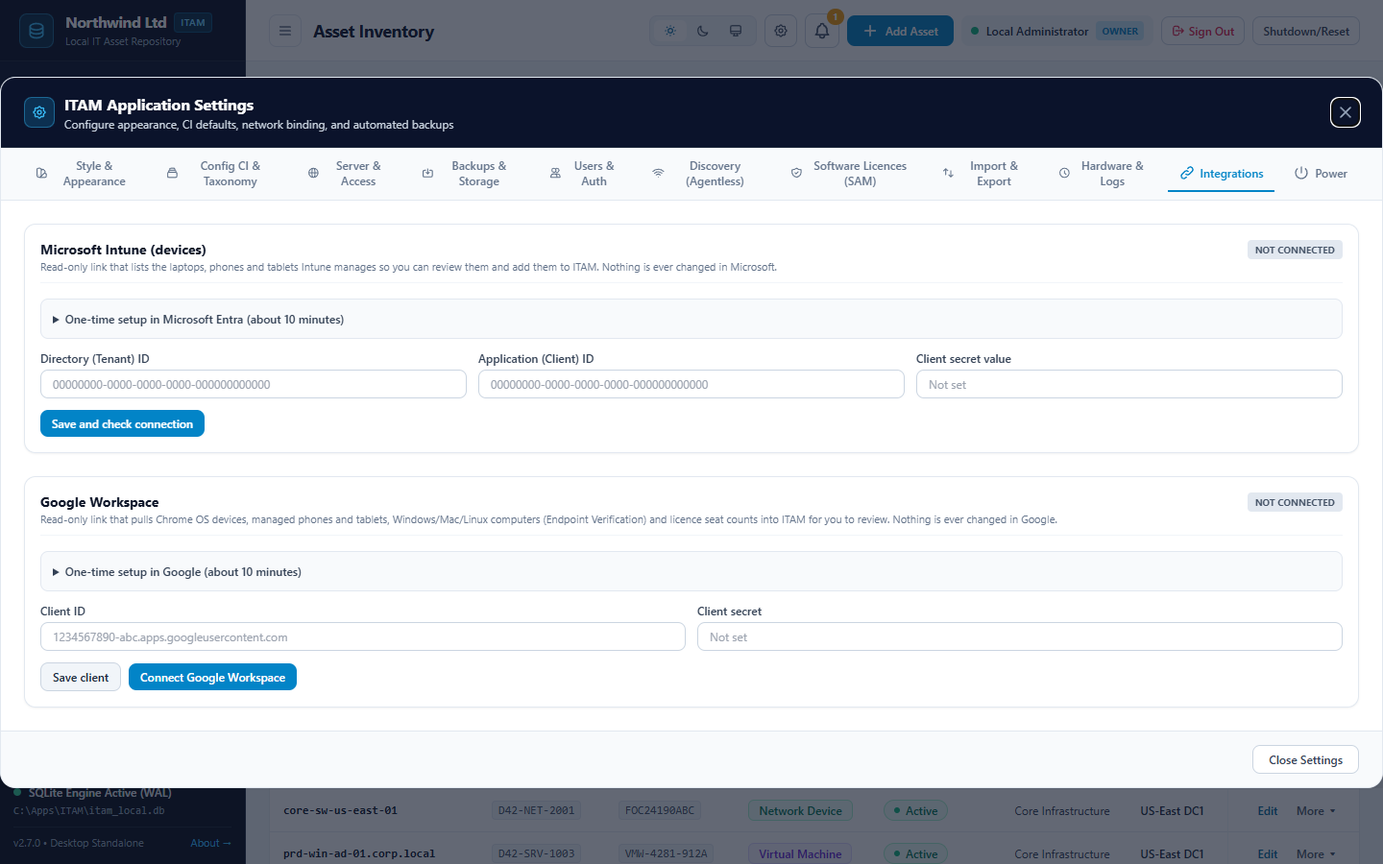
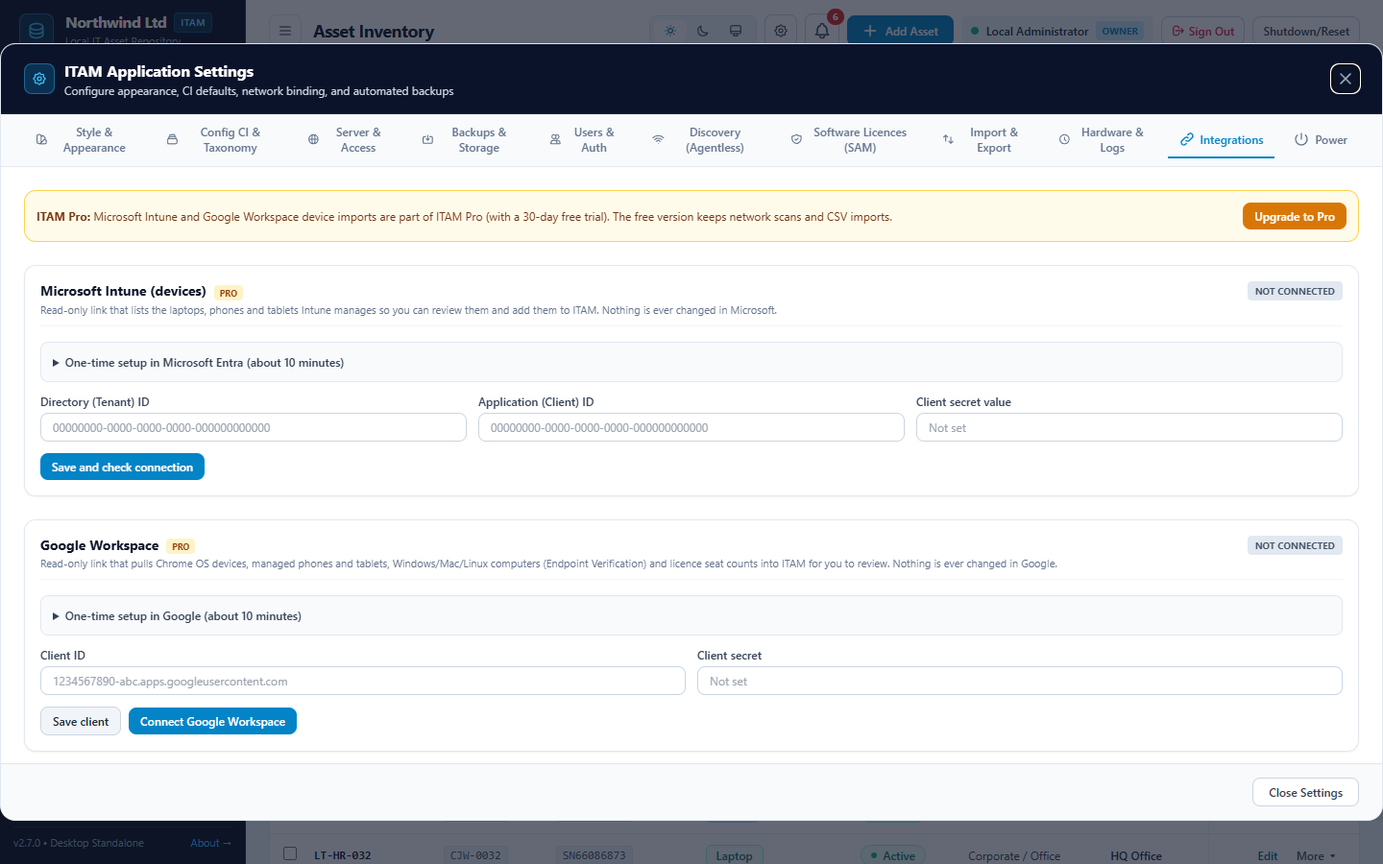
ITAM guides: new features with screenshots

diff --git a/itam/guides/02-Installation-and-Configuration.html b/itam/guides/02-Installation-and-Configuration.html
@@ -82,13 +82,15 @@ looks after. New to ITAM? Start with the <a href="01-Getting-Started.html">Getti
 <li><a href="#network-ports-and-protocols">Network ports and protocols</a></li>
 <li><a href="#where-itam-keeps-its-data">Where ITAM keeps its data</a></li>
 <li><a href="#network-access-and-https">Network access and HTTPS</a></li>
-<li><a href="#users-and-sign-in">Users and sign-in</a>: <a href="#roles">Roles</a> · <a href="#sign-in-with-microsoft">Microsoft</a> · <a href="#sign-in-with-google">Google</a> · <a href="#recovery-key">Recovery key</a></li>
+<li><a href="#users-and-sign-in">Users and sign-in</a>: <a href="#roles">Roles</a> · <a href="#automatic-sign-out">Automatic sign-out</a> · <a href="#sign-in-with-microsoft">Microsoft</a> · <a href="#sign-in-with-google">Google</a> · <a href="#recovery-key">Recovery key</a></li>
 <li><a href="#backups">Backups</a></li>
 <li><a href="#company-name-ci-types-and-dashboard-groups">Company name, CI types and dashboard groups</a></li>
 <li><a href="#software-licences">Software licences</a></li>
-<li><a href="#agentless-network-discovery">Agentless network discovery</a>: <a href="#windows-logins-wmi">Windows logins</a> · <a href="#snmp-v1v2c">SNMP</a> · <a href="#snmpv3-network-devices">SNMPv3</a> · <a href="#schedules">Schedules</a></li>
-<li><a href="#microsoft-intune">Microsoft Intune</a> · <a href="#google-workspace">Google Workspace</a></li>
+<li><a href="#agentless-network-discovery">Agentless network discovery</a>: <a href="#4-kept-scans">Kept scans</a> · <a href="#windows-logins-wmi">Windows logins</a> · <a href="#snmp-v1v2c">SNMP</a> · <a href="#snmpv3-network-devices">SNMPv3</a> · <a href="#schedules">Schedules</a></li>
+<li><a href="#microsoft-intune">Microsoft Intune</a> · <a href="#google-workspace">Google Workspace</a> (ITAM Pro)</li>
 <li><a href="#hardware-models-and-lifecycle">Hardware models and lifecycle</a></li>
+<li><a href="#asset-history-and-the-change-log">Asset history and the change log</a></li>
+<li><a href="#finance-settings">Finance settings</a></li>
 <li><a href="#restart-shut-down-and-factory-reset">Restart, shut down and factory reset</a></li>
 </ol>
 <blockquote>
@@ -165,14 +167,24 @@ in, and others connect to it with their browser.</p>
 <h3 id="starting-itam-with-windows">Starting ITAM with Windows</h3>
 <p>To have ITAM start when you sign in: press <strong>Windows + R</strong>, type <code>shell:startup</code> and press Enter. Then open the
 Start menu, find <strong>CJW-Apps ITAM</strong> under <strong>All apps</strong>, and drag it into that folder.</p>
+<h3 id="itams-own-window">ITAM's own window</h3>
+<p>ITAM opens in a Microsoft Edge (or Google Chrome) window of its own, with <strong>its own browser profile</strong>, kept in ITAM's
+data folder (<code>Window profile</code>). It has no extensions, no sync and no history shared with your everyday browsing, so:</p>
+<ul>
+<li>browser extensions (dark-mode add-ons, ad blockers, colour changers) cannot restyle or break ITAM;</li>
+<li>a browser set to clear cookies when it closes does not sign you out of ITAM's window;</li>
+<li>people who open ITAM in a normal browser tab are not affected by this; their own browser settings apply.</li>
+</ul>
 <h3 id="free-version-and-pro">Free version and Pro</h3>
 <p>ITAM is free for up to <strong>100 active assets</strong> (software licences and decommissioned assets do not
 count), including network scans and CSV imports. <strong>ITAM Pro</strong> removes the limit and adds the <strong>Microsoft Intune</strong> and
 <strong>Google Workspace</strong> device imports (Settings → Integrations): a monthly or yearly subscription with a 30-day free trial, paid through the
 Microsoft Store.</p>
 <ul>
-<li>A banner appears from 90 assets. Only the built-in <code>admin</code> account can <strong>Upgrade to Pro</strong>, <strong>Cancel Pro</strong> (in
-  <strong>About</strong>) or <strong>Recover purchase</strong>.</li>
+<li>A banner appears from 90 assets. Only the built-in <code>admin</code> account can <strong>Upgrade to Pro</strong> (banner, <strong>About</strong> or
+  <strong>Settings → Integrations</strong>), <strong>Cancel Pro</strong> (in <strong>About</strong>) or <strong>Recover purchase</strong>.</li>
+<li>Without Pro, <strong>Settings → Integrations</strong> shows the Intune and Google Workspace cards with a <strong>PRO</strong> label. A link
+  saved earlier stays saved, and the assets it added stay; only new imports pause.</li>
 <li>Without Pro nothing is deleted or locked: viewing, editing, exporting and backups all work; only adding new assets
   pauses.</li>
 <li>ITAM checks Pro with the Microsoft Store. If the Store cannot be reached, Pro carries on for 7 days, then shows
@@ -381,7 +393,7 @@ CJW Apps.</p>
 </ul>
 <hr />
 <h2 id="where-itam-keeps-its-data">Where ITAM keeps its data</h2>
-<p>ITAM keeps its data in <code>%LOCALAPPDATA%\CJW-Apps-ITAM</code>, inside the app's own storage. The folder holds the database (<code>itam_local.db</code>), the log file (<code>itam.log</code>) and the default <code>backups</code> folder.
+<p>ITAM keeps its data in <code>%LOCALAPPDATA%\CJW-Apps-ITAM</code>, inside the app's own storage. The folder holds the database (<code>itam_local.db</code>), the log file (<code>itam.log</code>), the default <code>backups</code> folder and the <code>Window profile</code> of ITAM's own window.
 <strong>Settings → Backups &amp; Storage</strong> shows the database's exact path and size.</p>
 <p>Passwords and keys you save in ITAM (client secrets, scan logins, API keys) are encrypted with Windows. They
 only work for the <strong>same Windows user on the same PC</strong>. If you move the database to another PC, enter them
@@ -436,7 +448,9 @@ another program has the port), it shows a message saying why.</p>
 <li>The person signs in with the username (or the e-mail address) and is asked to choose their own password.</li>
 </ol>
 <ul>
-<li><strong>Reset PW</strong> gives someone a new temporary password.</li>
+<li><strong>Reset PW</strong> opens a window for a new temporary password: type it twice (the eye shows what you typed). For your
+  own account, ITAM asks for your current password first. Browsers do not fill these boxes in for you, so a saved
+  password cannot slip in by mistake.</li>
 <li><strong>E-mail</strong> adds, changes or removes the address they can sign in with.</li>
 <li>Five wrong passwords lock a username for 15 minutes; twenty wrong attempts from one address lock that
   address. Lockouts are written to the change log.</li>
@@ -475,6 +489,12 @@ Google accounts take a role too.</p>
 <li>New local accounts, invites and people who sign in with Microsoft in organisation mode start as <strong>Viewer</strong>.</li>
 <li>Accounts from before roles existed ("User") became <strong>Editors</strong>, so they keep what they could do.</li>
 </ul>
+<h3 id="automatic-sign-out">Automatic sign-out</h3>
+<p><strong>Settings → Server &amp; Access → Automatic sign-out</strong>: after 15 or 30 minutes (the default), or 1, 2, 4 or 8 hours
+without using ITAM, everyone is signed out, so a window left open on an empty desk does not stay signed in.
+<strong>Never</strong> is possible but not advised when ITAM is shared on the network. Press <strong>Save</strong> to apply.</p>
+<p>Background updates of an open page (the alert bell, scan progress) do not count as using ITAM. Closing and opening
+ITAM's own window within that time keeps you signed in.</p>
 <h3 id="sign-in-with-microsoft">Sign in with Microsoft</h3>
 <p>Lets people use their Microsoft account: personal (Outlook, Hotmail, Live) or work/school. They sign in on
 Microsoft's own page, so ITAM never sees the password, and two-step sign-in, PINs and Windows Hello work.</p>
@@ -612,11 +632,14 @@ notes, and these:</p>
     left out, and so are Expired ones until they are renewed with a new expiry date.</li>
 <li><strong>One-off Purchases</strong> (with the year): one-time purchases bought this calendar year. Older ones are not
     counted.</li>
-<li><strong>Many at once</strong>: <strong>Settings → Import &amp; Export</strong> has a licence CSV template, export and import. See the
+<li><strong>Many at once</strong>: <strong>Settings → Import &amp; Export</strong> has a licence CSV template, export and import. The import
+  opens a review: what each row adds or updates (matched by name, with each change shown old → new), which rows
+  have problems, and how many need <strong>No Change</strong>. Untick rows to leave them out, or <strong>Edit</strong> a row to fix it. See the
   <a href="03-User-Guide.html#importing-and-exporting">User guide</a>.</li>
-<li><strong>Google Workspace licences</strong> come in with their seat count only; add the dates yourself. See
-  <a href="#google-licences-dates">Google licences: dates</a>.</li>
 </ul>
+<p><img alt="Reviewing a licence import" src="images/19-licence-import-review.png" />
+- <strong>Google Workspace licences</strong> come in with their seat count only; add the dates yourself. See
+  <a href="#google-licences-dates">Google licences: dates</a>.</p>
 <hr />
 <h2 id="agentless-network-discovery">Agentless network discovery</h2>
 <p>ITAM can scan your own networks and find devices without installing anything on them.
@@ -648,13 +671,23 @@ the existing network. Each login shows as a badge on the network; the <strong>×
 <li><strong>Database servers</strong>: SQL Server, Oracle, MySQL/MariaDB, PostgreSQL, Redis and MongoDB, recognised from their
   ports and, where possible, a harmless greeting. ITAM never logs in to a database.</li>
 </ul>
-<p>Found devices are <strong>staged</strong>. Nothing goes into the inventory until an administrator reviews it (see the
-<a href="03-User-Guide.html#reviewing-discovered-devices">User guide</a>), unless <strong>Auto-Sync</strong> or a schedule adds the
-clearly safe ones.</p>
+<p>Found devices are <strong>staged</strong> in a kept scan. Nothing goes into the inventory until an administrator reviews it (see
+the <a href="03-User-Guide.html#reviewing-discovered-devices">User guide</a>), unless <strong>Import new devices automatically</strong> is on.</p>
+<h3 id="4-kept-scans">4. Kept scans</h3>
+<img alt="Kept scans waiting for review" src="images/20-kept-scans.png" loading="lazy" /><p class="figure-caption">Kept scans waiting for review</p>
+<p>Every scan, by hand or scheduled, is kept as its own list: <strong>the last 5 of each network</strong>. A sixth scan of a network
+removes its oldest.</p>
+<ul>
+<li><strong>Scan</strong> chooses what the list shows: <em>Newest scan of each network</em> (the default) or any kept scan, with its date,
+  network, how it was started and how many devices still wait.</li>
+<li><strong>Review &amp; Import to Inventory</strong> works on the scan chosen there, so you can still import from an older scan.</li>
+<li><strong>Remove this scan</strong> forgets one scan; <strong>Clear All Scans</strong> forgets them all. Neither touches the inventory.</li>
+</ul>
 <h3 id="options">Options</h3>
 <ul>
-<li><strong>Auto-Sync Discovered Hosts to ITAM</strong>: after each scan, adds new devices whose CI type, make and model are
-  already in your inventory. Anything unfamiliar waits for review.</li>
+<li><strong>Import new devices automatically</strong> (off by default): after each scan, by hand or scheduled, adds new devices
+  whose CI type, make and model are already in your inventory. Anything unfamiliar, and any change to an existing
+  asset, waits for review. Off: every scan waits for review.</li>
 <li><strong>Skip Devices Managed by Microsoft Intune / Google Workspace</strong> (on by default): when Intune or Google
   Workspace is linked, devices it manages are left alone, matched by MAC address (and by computer name). The
   same PC is not reported twice or sent a Windows login. MAC addresses you linked to such a device with
@@ -743,12 +776,15 @@ too. For the fullest results, run the scan from a PC on that VLAN.</p>
 <p>Use a <strong>read-only</strong> SNMPv3 user; ITAM only ever reads. The CSV holds passwords in plain text, so keep it in a
 folder only administrators can open.</p>
 <h3 id="schedules">Schedules</h3>
-<p>Discovery, Intune and Google Workspace each have a <strong>Schedule</strong> box:
+<p>Discovery, Intune and Google Workspace each have a <strong>Schedule</strong> box (the Intune and Google schedules are part of
+ITAM Pro):
 - <strong>Off</strong>, every <strong>1, 2, 4, 6 or 12 hours</strong> from a chosen time, <strong>daily</strong> at a time, or <strong>weekly</strong> on a day at a
   time.
 - <strong>Run now</strong> starts a run straight away. The box shows the next run and the last result.</p>
 <p>What a scheduled run does by itself:
-- <strong>Discovery</strong>: scans every active network and adds the clearly new devices (known type, make and model).
+- <strong>Discovery</strong>: scans every active network. The devices wait in a <a href="#4-kept-scans">kept scan</a> for review, and the
+  alert bell says how many; only with <strong>Import new devices automatically</strong> on are the clearly new devices (known
+  type, make and model) added by themselves.
 - <strong>Intune / Google</strong>: adds new devices of a known type, make and model, and updates existing ones when their
   type, make and model stay the same. These updates keep the tag, department, location, environment and rack
   you set in ITAM.</p>
@@ -760,6 +796,10 @@ starts again. Every run is written to the change log.</p>
 <img alt="Settings: Integrations" src="images/11-integrations.png" loading="lazy" /><p class="figure-caption">Settings: Integrations</p>
 <p>Brings in the devices Intune manages (Windows, Mac, iPhone, iPad, Android). The link is read-only; nothing
 is changed in Microsoft. <strong>Settings → Integrations → Microsoft Intune</strong></p>
+<blockquote>
+<p><strong>ITAM Pro.</strong> The Intune and Google Workspace device imports, and their schedules, are part of ITAM Pro (or its
+30-day free trial). The free version keeps network scans and CSV imports. Sign-in with Microsoft or Google is free.</p>
+</blockquote>
 <p>You need a Microsoft 365 tenant with Intune (for example Microsoft 365 Business Premium) and a Global
 Administrator account in it.</p>
 <p><strong>In the Entra admin center</strong>, using an app registration (the one you use for Microsoft sign-in is fine):
@@ -792,8 +832,8 @@ forget</strong>). Assets already imported stay.</p>
 <hr />
 <h2 id="google-workspace">Google Workspace</h2>
 <p>Brings in Chromebooks, managed phones and tablets, Windows/Mac/Linux computers and licence seat counts from
-Google Workspace. The link is read-only; nothing is changed in Google. <strong>Settings → Integrations → Google
-Workspace</strong></p>
+Google Workspace (<strong>ITAM Pro</strong>). The link is read-only; nothing is changed in Google. <strong>Settings → Integrations →
+Google Workspace</strong></p>
 <p>You need a Google Workspace account with super administrator rights, on a domain you have verified in the
 Google Admin console. Gmail does not need to be switched on for the domain.</p>
 <p><strong>In the Google Cloud console</strong> (console.cloud.google.com), signed in as the Workspace super administrator:
@@ -905,6 +945,39 @@ end-of-support dates. Every asset of a model shows that model's dates.</p>
     built-in entry for the same model. Their Source shows <strong>Reference table (your entry)</strong>.</li>
 <li>The model name must be at least 4 letters or digits, and it matches whole words, as the built-in entries do.</li>
 </ul>
+<hr />
+<h2 id="asset-history-and-the-change-log">Asset history and the change log</h2>
+<img alt="An asset's full history" src="images/16-asset-history.png" loading="lazy" /><p class="figure-caption">An asset's full history</p>
+<p>ITAM records two things:</p>
+<ul>
+<li><strong>Each asset's History</strong>: every change to the asset, field by field from the old value to the new one, with who made
+  it and how (by hand, Edit together, CSV import, Intune, Google Workspace, network scan or a scheduled run). Open an
+  asset and press <strong>View full history</strong>; <strong>Download CSV</strong> saves it.</li>
+<li><strong>The Change Log Ledger</strong> (left menu, administrators): every action in ITAM, including sign-ins, settings and
+  imports.</li>
+</ul>
+<p><strong>Settings → Hardware &amp; Logs</strong>:</p>
+<ul>
+<li><strong>Keep asset history</strong>: 1, 2 (the default) or 5 years, or forever. Older history is removed once a day. It is kept
+  apart from the change log, so trimming the log never removes it.</li>
+<li><strong>Max Log Storage Boundary (MB)</strong>: how large the change log may grow before its oldest entries are trimmed.
+  <strong>Run Rotator Now</strong> trims it straight away.</li>
+</ul>
+<p>Passwords and keys are never written to the history or the log.</p>
+<hr />
+<h2 id="finance-settings">Finance settings</h2>
+<p><strong>Finance</strong> in the left menu works out IT spend, hardware write-off (straight line) and renewals from the assets'
+<strong>Purchase &amp; Warranty</strong> details and the licences' costs. Anyone signed in can open it; see the
+<a href="03-User-Guide.html#finance">User Guide</a> for what each figure means.</p>
+<p>At the top of the page, choose:</p>
+<ul>
+<li><strong>Years are</strong>: <em>Financial years</em> or <em>Calendar years</em>, and the month the <strong>financial year starts</strong> (April at first).</li>
+<li><strong>Write hardware off over</strong>: 3, 4 or 5 years.</li>
+<li><strong>Renewals in the next</strong>: 3, 6 or 12 months.</li>
+</ul>
+<p>These choices apply to your own view. An administrator can press <strong>Save as default</strong> to make them the starting point
+for everyone. The currency is the one chosen on the Software Licences screen.</p>
+<hr />
 <h2 id="restart-shut-down-and-factory-reset">Restart, shut down and factory reset</h2>
 <p>Only the built-in <code>admin</code> account sees <strong>Shutdown/Reset</strong> in the top bar (<strong>Settings → Power</strong>):
 - <strong>Restart</strong>: applies network and port changes. Nothing is lost.

diff --git a/itam/guides/01-Getting-Started.html b/itam/guides/01-Getting-Started.html
@@ -106,7 +106,7 @@ piece of IT you own, and keeps it up to date for you.</p>
 </tr>
 <tr>
 <td>Stop typing it all in</td>
-<td>Agentless network scans, Microsoft Intune and Google Workspace imports, and CSV import</td>
+<td>Agentless network scans and CSV import, with a review before anything is saved; Microsoft Intune and Google Workspace imports with ITAM Pro</td>
 </tr>
 <tr>
 <td>Stay licence-compliant</td>
@@ -115,6 +115,18 @@ piece of IT you own, and keeps it up to date for you.</p>
 <tr>
 <td>Plan replacements</td>
 <td>End-of-life and end-of-support dates for each hardware model</td>
+</tr>
+<tr>
+<td>Know what IT costs</td>
+<td>A <strong>Finance</strong> view: spend by year, hardware write-off, renewals coming up and unused licence seats</td>
+</tr>
+<tr>
+<td>See who changed what</td>
+<td>A <strong>History</strong> on every asset: each field from its old value to the new one, who changed it and how</td>
+</tr>
+<tr>
+<td>Change many assets at once</td>
+<td><strong>Edit together</strong>: tick assets and set a location, department, user, status and more in one go</td>
 </tr>
 <tr>
 <td>Share it with colleagues</td>
@@ -170,6 +182,9 @@ is ever deleted or locked: only adding new assets pauses at the limit.</p>
 <li>The <strong>ITAM icon</strong> appears in the notification area near the clock (it may be under the <strong>^</strong> arrow). Closing the
   window does <strong>not</strong> stop ITAM: backups and scheduled scans carry on. Click the icon to open the window again,
   or right-click it and choose <strong>Quit ITAM</strong> to stop the program.</li>
+<li>The window uses <strong>its own Microsoft Edge profile</strong>, apart from your everyday browsing. Your browser's extensions
+  (such as dark-mode add-ons) and "clear cookies when closing" settings do not affect it, so it stays signed in until
+  the <a href="02-Installation-and-Configuration.html#automatic-sign-out">automatic sign-out</a> time passes.</li>
 <li>The first time, Windows Defender Firewall may ask whether ITAM may use the network. Choose <strong>Private
   networks</strong>. This is only needed for network scans and for colleagues to connect.</li>
 </ul>
@@ -196,7 +211,7 @@ ITAM. Create named accounts for everyday use (see step 6).</p>
 <tbody>
 <tr>
 <td><strong>Left menu</strong></td>
-<td>Views (all assets, servers and computers, network devices, databases, software licences) with counts; add assets and licences; the change log, Settings and About</td>
+<td>Views (all assets, servers and computers, network devices, databases, software licences) with counts; <strong>Finance</strong>; add assets and licences; the change log, Settings and About</td>
 </tr>
 <tr>
 <td><strong>Top bar</strong></td>
@@ -212,7 +227,7 @@ ITAM. Create named accounts for everyday use (see step 6).</p>
 </tr>
 <tr>
 <td><strong>Asset table</strong></td>
-<td>One row per asset. Click a row for its details; <strong>Edit</strong> and <strong>More</strong> change it</td>
+<td>One row per asset. Click a row for its details; <strong>Edit</strong> and <strong>More</strong> change it. Tick several rows and press <strong>Edit together...</strong> to change them in one go</td>
 </tr>
 </tbody>
 </table>
@@ -263,18 +278,27 @@ the top of the screen for everyone.</p>
 <td><strong>Settings → Discovery (Agentless)</strong></td>
 </tr>
 <tr>
-<td><strong>Microsoft Intune</strong></td>
+<td><strong>Microsoft Intune</strong> (Pro)</td>
 <td>Laptops and phones Intune already manages</td>
 <td><strong>Settings → Integrations</strong></td>
 </tr>
 <tr>
-<td><strong>Google Workspace</strong></td>
+<td><strong>Google Workspace</strong> (Pro)</td>
 <td>Chromebooks, phones and computers Google already manages</td>
 <td><strong>Settings → Integrations</strong></td>
 </tr>
 </tbody>
 </table>
-<p>Every import shows you what it will add or change <strong>before</strong> anything is saved.</p>
+<p>Every import shows you what it will add or change <strong>before</strong> anything is saved:</p>
+<ul>
+<li><strong>Untick</strong> a row to leave it out, or press <strong>Edit</strong> to fix a row with a problem; ITAM checks it again.</li>
+<li>Rows with problems are never imported. <strong>Leave out rows with warnings</strong> and <strong>Show only rows with warnings or
+  errors</strong> help with long files.</li>
+<li>Rows that match what ITAM already holds are not listed; they are counted under <strong>No Change</strong>.</li>
+<li>Network scans are kept for you to review: the last 5 of each network.</li>
+</ul>
+<img alt="Reviewing a CSV import" src="images/18-import-review.png" loading="lazy" /><p class="figure-caption">Reviewing a CSV import</p>
+<p>To add a single asset by hand, press <strong>Add Asset</strong>:</p>
 <img alt="Adding an asset" src="images/03-add-asset.png" loading="lazy" /><p class="figure-caption">Adding an asset</p>
 <p>Only <strong>Asset Name</strong> is required. Section 4, <strong>Purchase &amp; Warranty</strong>, is optional, but filling in the warranty end
 means ITAM warns you 30 days before it runs out.</p>
@@ -282,7 +306,9 @@ means ITAM warns you 30 days before it runs out.</p>
 <h3 id="step-4-add-your-software-licences-3-minutes">Step 4: Add your software licences (3 minutes)</h3>
 <p>Press <strong>Add Software Licence</strong> in the left menu. Enter the product, seats bought, cost, renewal date and how it is
 licensed (per device, per user, site licence...). Under <strong>Installed on</strong>, choose the assets that use it: ITAM then
-shows whether you are compliant.</p>
+shows whether you are compliant. Click a licence in the list on the dashboard to see all its details.</p>
+<p>Many licences at once: <strong>Settings → Import &amp; Export → Bulk Licences CSV Import</strong> opens the same kind of review as
+assets.</p>
 <img alt="Software licences" src="images/06-software-licences.png" loading="lazy" /><p class="figure-caption">Software licences</p>
 <h3 id="step-5-add-your-colleagues-2-minutes">Step 5: Add your colleagues (2 minutes)</h3>
 <p><strong>Settings → Users &amp; Auth</strong></p>
@@ -295,6 +321,16 @@ shows whether you are compliant.</p>
 <p>Give each person a role: <strong>Viewer</strong> (look and search), <strong>Editor</strong> (also add, change, import and export) or
 <strong>Administrator</strong> (everything, including settings).</p>
 <img alt="Users and roles" src="images/08-users.png" loading="lazy" /><p class="figure-caption">Users and roles</p>
+<h3 id="step-6-look-at-your-costs-1-minute">Step 6: Look at your costs (1 minute)</h3>
+<p>Press <strong>Finance</strong> in the left menu. It adds up what your hardware and software cost each year, writes the hardware
+off over 3, 4 or 5 years, and lists the renewals and warranties coming up. Choose whether your <strong>years are
+financial or calendar years</strong> and the month your financial year starts; an administrator can press <strong>Save as
+default</strong> to keep that for everyone.</p>
+<img alt="Finance" src="images/15-finance.png" loading="lazy" /><p class="figure-caption">Finance</p>
+<p>The figures come from each asset's <strong>Purchase &amp; Warranty</strong> details and each licence's cost. To fill them in for
+many assets at once, tick them in the asset table and press <strong>Edit together...</strong>. Tick only the fields to change;
+everything you leave unticked stays as it is on every asset.</p>
+<img alt="Editing several assets together" src="images/17-edit-together.png" loading="lazy" /><p class="figure-caption">Editing several assets together</p>
 <h3 id="want-to-explore-first">Want to explore first?</h3>
 <p><strong>Settings → Config CI &amp; Taxonomy → Load Sample Data</strong> adds ten example assets, four licences and a network.
 <strong>Remove Sample Data</strong> later takes away only the examples you have not changed.</p>
@@ -320,8 +356,16 @@ shows whether you are compliant.</p>
 <td><a href="02-Installation-and-Configuration.html#network-ports-and-protocols">Installation &amp; Configuration: Network ports and protocols</a></td>
 </tr>
 <tr>
-<td>Bring in Intune or Google Workspace devices</td>
+<td>Bring in Intune or Google Workspace devices (Pro)</td>
 <td><a href="02-Installation-and-Configuration.html#microsoft-intune">Microsoft Intune</a> · <a href="02-Installation-and-Configuration.html#google-workspace">Google Workspace</a></td>
+</tr>
+<tr>
+<td>See an asset's history, or edit several assets together</td>
+<td><a href="03-User-Guide.html">User Guide: Assets</a></td>
+</tr>
+<tr>
+<td>Understand the Finance figures</td>
+<td><a href="03-User-Guide.html#finance">User Guide: Finance</a></td>
 </tr>
 <tr>
 <td>Learn the day-to-day screens</td>
